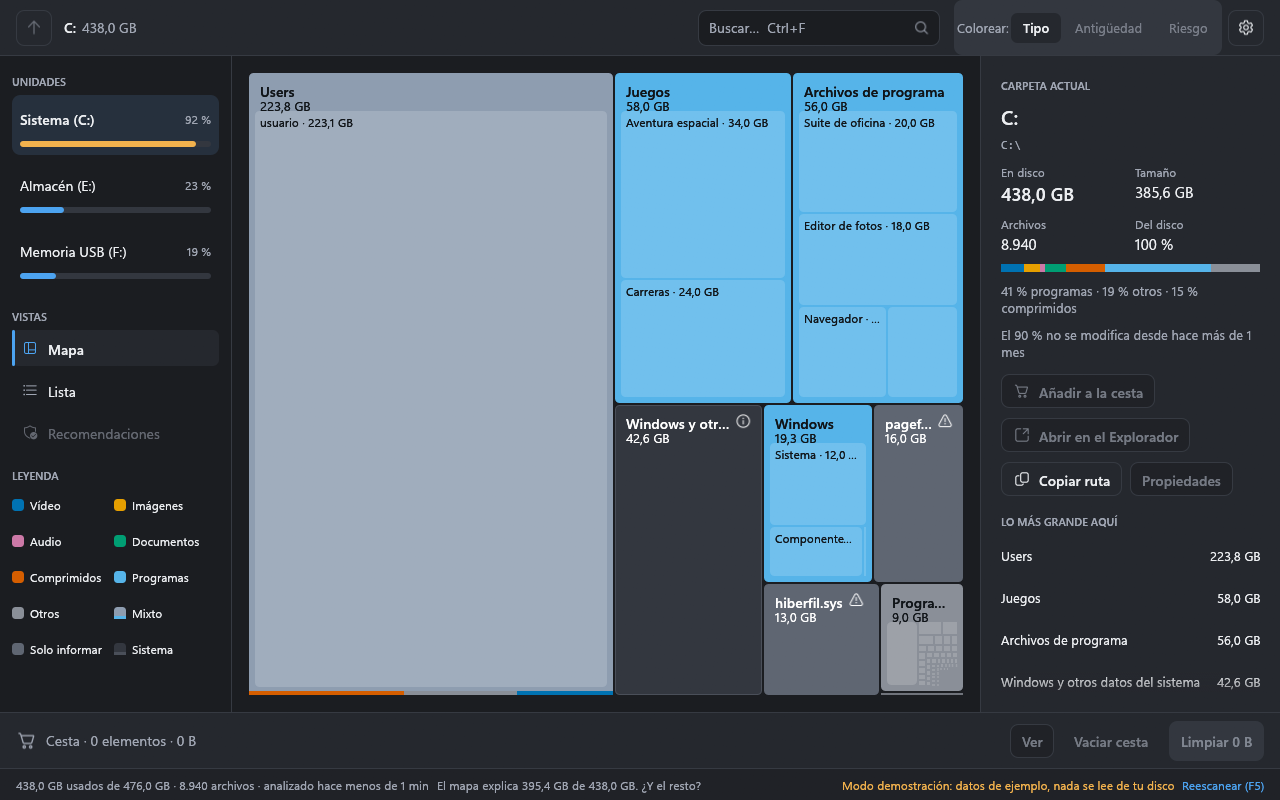
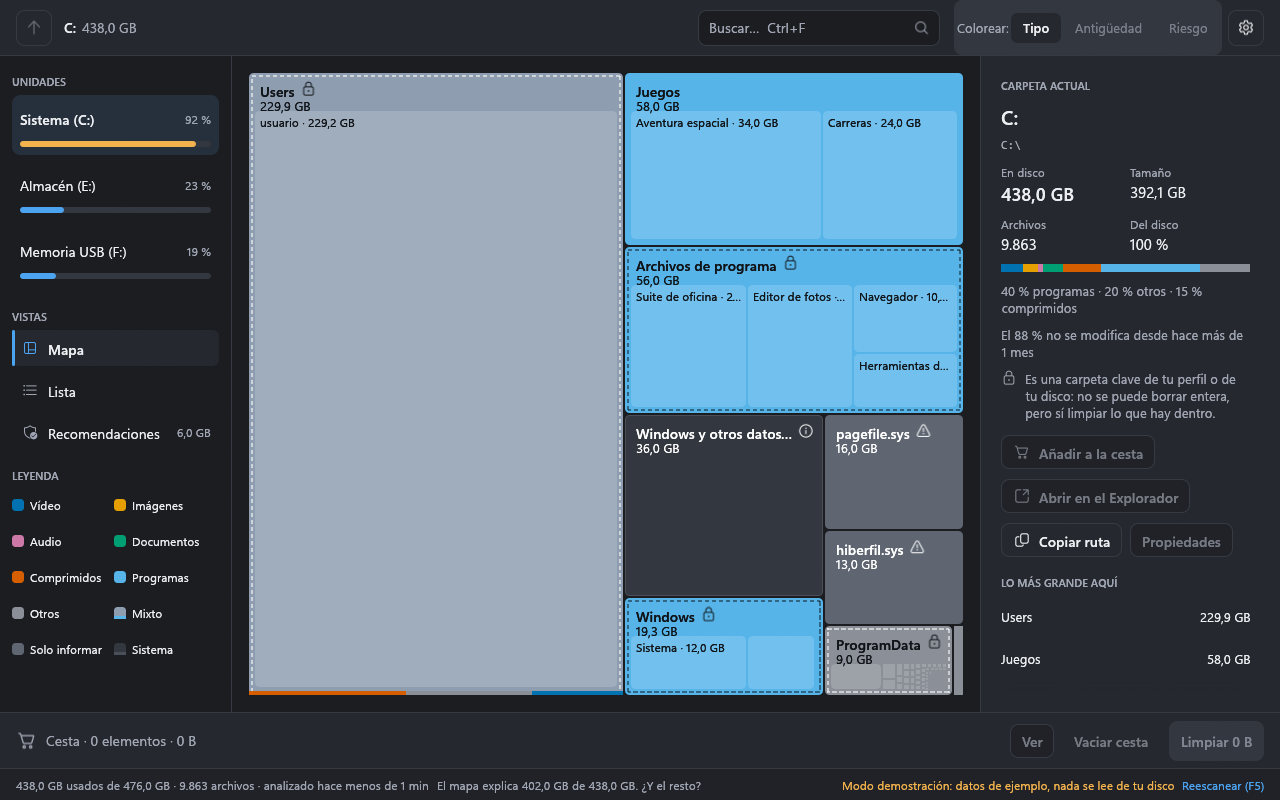
docs: README con la limpieza y capturas de Recomendaciones, Confirmacion y Resumen (solo --demo)

diff --git a/README.md b/README.md
@@ -3,7 +3,7 @@
 **Mira qué ocupa tu disco y libera espacio sin miedo.**
 Analizador visual de espacio en disco para Windows, escrito en Rust: rápido, ligero y claro.
 
-> 🚧 **Estado: MVP v0.1 en construcción.** Hechos el modelo, el escáner y la **interfaz de solo lectura** (mapa, lista, detalles, escaneo con progreso real, es/en, claro/oscuro). **Todavía no borra nada:** la cesta y la limpieza llegan en el siguiente incremento. Conclusiones de la fase 0 en [docs/fase-0-conclusiones.md](docs/fase-0-conclusiones.md); el plan completo está en [docs/PLAN.md](docs/PLAN.md).
+> 🚧 **Estado: MVP v0.1 en construcción.** Hechos el modelo, el escáner, la interfaz (mapa, lista, detalles, escaneo con progreso real, es/en, claro/oscuro) y **la limpieza**: Recomendaciones, cesta, confirmación y resumen, con borrado seguro por handle y envío a la Papelera. **Esta versión borra de verdad** (solo lo que apruebas en la confirmación): pruébala primero con `--dry-run` o con `--demo`. Falta el instalador. Conclusiones de la fase 0 en [docs/fase-0-conclusiones.md](docs/fase-0-conclusiones.md); el plan completo está en [docs/PLAN.md](docs/PLAN.md).
 
 ## Qué será
 
@@ -16,25 +16,38 @@ Analizador visual de espacio en disco para Windows, escrito en Rust: rápido, li
 
 ## Uso
 
-Windows 10 22H2 y Windows 11. En esta versión la aplicación es de **solo lectura**: no borra, mueve ni escribe nada de tus archivos (solo guarda sus ajustes en `%APPDATA%\Tesela\config.toml`).
+Windows 10 22H2 y Windows 11. La aplicación **solo borra o mueve lo que aprobaste en la confirmación** (nunca al escanear, ni en `--demo`). Guarda sus ajustes en `%APPDATA%\Tesela\config.toml` y en `%LOCALAPPDATA%\Tesela` un registro de cada limpieza (`limpieza-<fecha>.jsonl`: ruta, identidad y resultado de cada elemento; solo en tu equipo, se conservan los últimos 30) y `history.jsonl` con resúmenes (fecha, unidad y cifras, sin rutas). El historial se borra desde Ajustes.
 
 ```powershell
 tesela                      # pantalla de inicio: elige una unidad o "Analizar una carpeta…"
 tesela --scan C:\           # analiza esa unidad (o carpeta) nada más arrancar
-tesela --demo               # modo demostración: árbol SINTÉTICO y unidades ficticias; no lee tu disco
+tesela --scan C:\ --dry-run # modo simulación: hace todo salvo borrar o mover (mide y registra qué habría pasado)
+tesela --demo               # modo demostración: árbol SINTÉTICO y unidades ficticias; no lee tu disco ni borra nada
 tesela --help
 ```
 
-El modo `--demo` es el único con el que se hacen capturas y pruebas: todo lo que enseña (carpetas, tamaños, unidades) está inventado y es siempre el mismo. Admite `--screen home|scan|map|list`, `--open Users/usuario`, `--select Descargas`, `--stopped` (un análisis detenido, con carpetas incompletas), `--theme light|dark`, `--lang es|en` y `--size 1280x800`.
+El modo `--demo` es el único con el que se hacen capturas y pruebas: todo lo que enseña (carpetas, tamaños, unidades) está inventado y es siempre el mismo. Admite `--screen home|scan|map|list|recs|confirm|summary`, `--open Users/usuario`, `--select Descargas`, `--stopped` (un análisis detenido, con carpetas incompletas), `--theme light|dark`, `--lang es|en` y `--size 1280x800`.
 
 ![Mapa de una carpeta de usuario en el modo demostración, tema claro](docs/img/mapa-claro.png)
 ![Mapa de una unidad en el modo demostración, tema oscuro](docs/img/mapa-oscuro.png)
+![Recomendaciones en el modo demostración: lo seguro ya marcado, lo que conviene revisar y lo que solo se explica](docs/img/recomendaciones.png)
+![Confirmación antes de limpiar, con lo que se borra y lo que va a la Papelera](docs/img/confirmacion.png)
+![Resumen de una limpieza: lo liberado ahora, lo eliminado y lo movido a la Papelera](docs/img/resumen.png)
 
 - **Mapa:** un bloque por carpeta o archivo, proporcional a lo que ocupa **en disco**, coloreado por tipo (paleta apta para daltonismo). Se insinúa el nivel siguiente dentro de cada bloque. Los bloques demasiado pequeños se agrupan en **"Otros (N elementos, X)"**, que se abre con doble clic. Las carpetas que el análisis no llegó a recorrer entera llevan rayas diagonales y un "≥".
 - **Grises con significado:** el bloque "Windows y otros datos del sistema" (lo que ocupa el disco pero tu usuario no puede ver), `pagefile.sys` y `hiberfil.sys` ("solo informar") y "Mixto" (carpetas sin un tipo dominante).
 - **Lista:** las mismas carpetas con cifras exactas; es la vista accesible (lector de pantalla) y comparte la selección con el mapa.
 - **Teclado:** doble clic o `Intro` entra en una carpeta; `Retroceso` sube; las flechas mueven la selección; `Ctrl+F` busca; `F5` reescanea. Clic derecho: abrir en el Explorador, copiar la ruta y Propiedades.
-- **Ajustes (⚙):** tema (sistema, claro u oscuro) e idioma (sistema, español o English).
+- **Ajustes (⚙):** tema (sistema, claro u oscuro), idioma (sistema, español o English) y borrar el historial de limpiezas.
+
+### Limpieza
+
+- **Recomendaciones:** temporales del usuario y de Windows (solo lo de más de 24 h), cachés de Edge, Chrome y Firefox (con el navegador cerrado), y, como **Revisar**, Descargas y la Papelera. `pagefile.sys`, `hiberfil.sys` y `swapfile.sys` solo se explican. "Puedes liberar X sin riesgo" suma **solo** lo Seguro, y es una estimación: la cifra buena la mide la limpieza.
+- **Todo pasa por la cesta y una confirmación** que agrupa por destino: lo regenerable se **borra** (se vuelve a crear solo) y tus archivos van a la **Papelera**. Lo que no cabe en la Papelera sale aparte, en ámbar, y solo se elimina si lo marcas expresamente. Los cinco archivos tuyos más grandes se nombran siempre.
+- **Protegido:** Windows, Archivos de programa, `AppData` entero, las carpetas clave del perfil (solo se limpia su contenido), el propio Tesela y lo que no se pueda comprobar. Se ve con candado y borde punteado y no se puede añadir.
+- **Borrado seguro:** se comprueba la identidad de cada elemento (volumen, id de archivo y enlaces) justo antes de tocarlo, se abre en exclusiva y se borra por handle, sin entrar nunca en puntos de reparse (junctions, enlaces simbólicos); un enlace duro no cuenta como liberado. Lo que está en uso se **salta**, no se fuerza.
+- **"Liberado ahora"** es lo que ha cambiado de verdad en el espacio libre de la unidad; lo enviado a la Papelera se cuenta aparte, porque no libera hasta que se vacía.
+- El árbol se actualiza **sin reescanear** (los histogramas quedan marcados como aproximados hasta reescanear).
 
 ## Hoja de ruta
 
@@ -58,13 +71,13 @@ Rust · [egui/eframe](https://github.com/emilk/egui) · [windows-rs](https://git
 
 Workspace de Cargo en la raíz (`crates/`); `spike/` es el código de medición de la fase 0, con su propio workspace.
 Estado del MVP v0.1: hechos el modelo (`tesela-model`), el escáner de solo lectura (`tesela-scanner`) con su CLI
-`tesela-scan`, el layout del treemap (`tesela-layout`), la interfaz (`tesela-ui`) y el ejecutable (`tesela-app`, binario
-`tesela`); la cesta y la limpieza (`tesela-cleaner`) llegan en el siguiente incremento.
+`tesela-scan`, el layout del treemap (`tesela-layout`), la limpieza (`tesela-cleaner`: reglas, protecciones, borrado por
+handle y Papelera), la interfaz (`tesela-ui`) y el ejecutable (`tesela-app`, binario `tesela`).
 
 ```powershell
 cargo fmt --check
 cargo clippy --workspace --all-targets -- -D warnings
-cargo test --workspace            # los tests solo usan árboles sintéticos en %TEMP%\tesela-test-<uuid>
+cargo test --workspace            # los tests solo tocan carpetas de prueba en %TEMP%\tesela-test-<uuid> (y, para la Papelera, solo elementos propios)
 cargo deny check
 cargo run --release -p tesela-scan -- <ruta> --top 20   # solo lectura; opciones en la cabecera de crates/tesela-scan/src/main.rs
 cargo run -p tesela-app -- --demo                        # la interfaz con datos sintéticos

diff --git a/docs/img/README.md b/docs/img/README.md
@@ -15,5 +15,8 @@ El hash va con la imagen: si cambia un solo byte hay que volver a registrarla (`
 
 ## Imágenes registradas
 
-- mapa-claro.png | sha256: adf4969582fbb559236a8f910d9eb967e8460f655280a148c2860a45c8711938 | `cargo run -p tesela-app --features capture -- --demo --screen map --open Users/usuario --select Descargas --theme light --lang es --size 1280x800 --screenshot docs/img/mapa-claro.png`
-- mapa-oscuro.png | sha256: a0609c142a2b8391cada1795b200991e9f854b24a5c9b156aed3fd1d747f43b0 | `cargo run -p tesela-app --features capture -- --demo --screen map --theme dark --lang es --size 1280x800 --screenshot docs/img/mapa-oscuro.png`
+- mapa-claro.png | sha256: 53875e4cd8c00b57935cbf10a614a9a3f49430c663aefbeade01cf72ec10067c | `cargo run -p tesela-app --features capture -- --demo --screen map --open Users/usuario --select Descargas --theme light --lang es --size 1280x800 --screenshot docs/img/mapa-claro.png --overwrite`
+- mapa-oscuro.png | sha256: b3a431728b860853484cb70a339f5398fb11165cb3cb46d0193262e96e7f9c66 | `cargo run -p tesela-app --features capture -- --demo --screen map --theme dark --lang es --size 1280x800 --screenshot docs/img/mapa-oscuro.png --overwrite`
+- recomendaciones.png | sha256: 1392d5ff921dba0138300cb4755f2edb8333502ba95dfe3e719f44483e43dac1 | `cargo run -p tesela-app --features capture -- --demo --screen recs --theme light --lang es --size 1280x800 --screenshot docs/img/recomendaciones.png`
+- confirmacion.png | sha256: df8dd2a6d419bbe661a161e0c8b0d9002fde9e84d8f0edcbfbddebf41f02ed3c | `cargo run -p tesela-app --features capture -- --demo --screen confirm --theme light --lang es --size 1280x800 --screenshot docs/img/confirmacion.png`
+- resumen.png | sha256: 64f7d14a990044197b08095f1eb6e8323be322bf178838c4cd0568e3454406bf | `cargo run -p tesela-app --features capture -- --demo --screen summary --theme light --lang es --size 1280x800 --screenshot docs/img/resumen.png`
